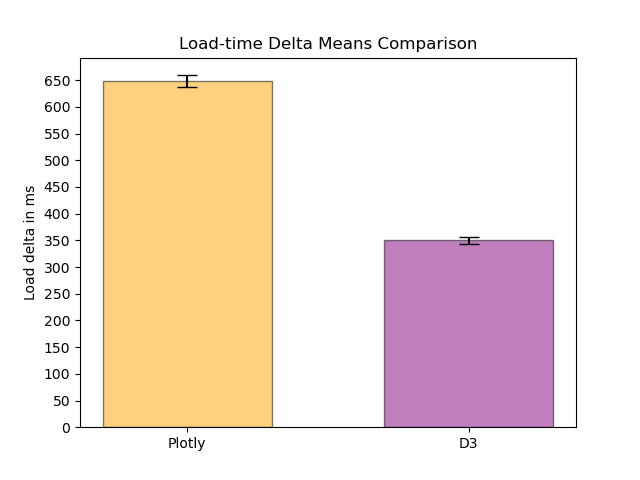
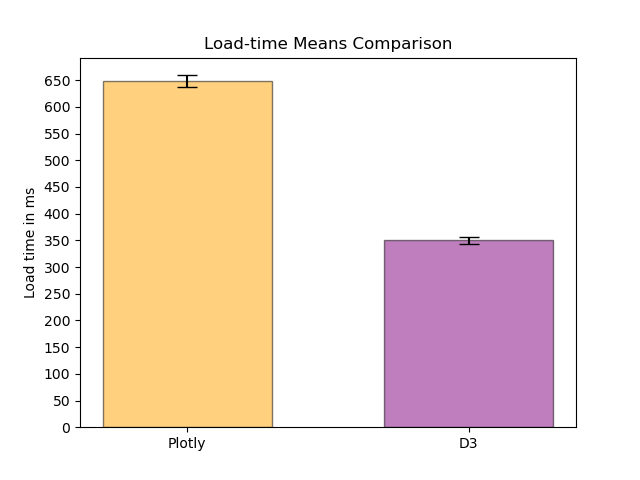
remade all the graphs for the pilot study, removing the erronious usage of the word "delta"

Changed region(s): [[0.2812, 0.0625, 0.75, 0.125], [0.0312, 0.375, 0.0625, 0.625]]

diff --git a/pilotData/diffs/individualfiltersCI.py b/pilotData/diffs/individualfiltersCI.py
@@ -150,10 +150,10 @@ plt.bar(barsOrder+0.1, D3BarsData, color="purple", edgecolor='black', width=barW
 # Put a tick on the x-axis undex each bar and label it with column name
 # plt.xticks(range(len(df.columns)), df.columns)
 
-plt.ylabel('Load time delta in ms')
+plt.ylabel('Load time in ms')
 plt.yticks(range(0, 700, 50))
 plt.xticks(range(5), ['BE', 'DE','BE & DK', 'ES, CZ, EL, ES, FR, HR, IT, CY, LV, LT, LU & EE', 'FI, SE & DK'])
-plt.title('Individual Filters Time Delta Means Comparison')
+plt.title('Individual Filters Time Means Comparison')
 plt.legend(["Plotly", "D3"]) 
 plt.grid(False)
 # bbox tight removes white margin on the image

diff --git a/pilotData/diffs/filterCI.py b/pilotData/diffs/filterCI.py
@@ -65,10 +65,10 @@ plt.bar(barsOrder, barsData, color=colors, edgecolor='black', width=barWidth,
 # Put a tick on the x-axis undex each bar and label it with column name
 # plt.xticks(range(len(df.columns)), df.columns)
 
-plt.ylabel('Load time delta in ms')
+plt.ylabel('Load time in ms')
 plt.yticks(range(0, 700, 50))
 plt.xticks(range(2), ['Plotly', 'D3'])
-plt.title('Filter Time Delta Means Comparison')
+plt.title('Filter Time Means Comparison')
 plt.grid(False)
 plt.savefig('../Graphs/filterLoadTimeDelta.png')
 # plt.show()

diff --git a/pilotData/diffs/CI.py b/pilotData/diffs/CI.py
@@ -65,10 +65,10 @@ plt.bar(barsOrder, barsData, color=colors, edgecolor='black', width=barWidth,
 # Put a tick on the x-axis undex each bar and label it with column name
 # plt.xticks(range(len(df.columns)), df.columns)
 
-plt.ylabel('Load delta in ms')
+plt.ylabel('Load time in ms')
 plt.yticks(range(0, 700, 50))
 plt.xticks(range(2), ['Plotly', 'D3'])
-plt.title('Load-time Delta Means Comparison')
+plt.title('Load-time Means Comparison')
 plt.grid(False)
 plt.savefig('../Graphs/loadTimeDelta.png')
 # plt.show()
